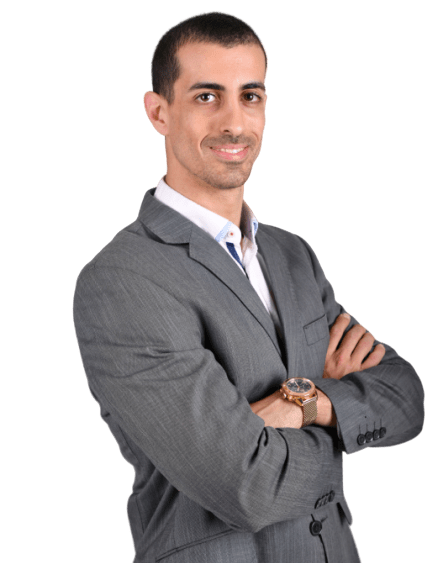
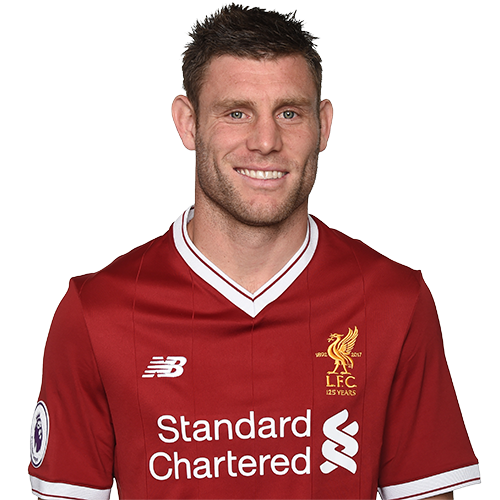
about page

diff --git a/src/main/resources/templates/about.html b/src/main/resources/templates/about.html
@@ -1,0 +1,212 @@
+<!doctype html>
+<html lang="en" xmlns:th="http://www.thymeleaf.org">
+
+<head>
+  <!-- Required meta tags -->
+  <meta charset="utf-8">
+  <meta name="viewport" content="width=device-width, initial-scale=1">
+  <title>Eazy School - Best Educational Institute for your Child</title>
+  <!-- Google fonts -->
+  <link href="//fonts.googleapis.com/css2?family=Ubuntu:wght@300;400;500;700&display=swap" rel="stylesheet">
+  <!-- Template CSS Style link -->
+  <link rel="stylesheet" href="assets/css/style-starter.css">
+</head>
+
+<body>
+
+<!-- header -->
+<div th:replace="~{header :: header}">...</div>
+<!-- //header -->
+
+<!-- inner banner -->
+<section class="inner-banner py-5">
+  <div class="w3l-breadcrumb py-lg-5">
+    <div class="container pt-4 pb-sm-4">
+      <h4 class="inner-text-title pt-5">About Us</h4>
+      <ul class="breadcrumbs-custom-path">
+        <li><a th:href="@{/home}">Home</a></li>
+        <li class="active"><i class="fas fa-angle-right"></i>About Us</li>
+      </ul>
+    </div>
+  </div>
+</section>
+<!-- //inner banner -->
+
+<!-- team block -->
+<section class="w3l-team-13 py-5" id="team">
+  <div class="container py-md-5 py-4">
+    <div class="title-main text-center mx-auto mb-md-5 mb-4" style="max-width:500px;">
+      <p class="text-uppercase">Our Team</p>
+      <h3 class="title-style">Meet our Teachers</h3>
+    </div>
+    <div class="row text-center left-side">
+      <div class="col-lg-3 col-6">
+        <div class="image-one">
+          <a href="#team">
+            <img src="assets/images/team1.png" class="arrow-png img-responsive" />
+            <h4>Trent Alexander-Arnold</h4>
+            <div class="buttons-teams2 mt-2">
+              <a href="#team"><i class="fab fa-facebook-square"></i></a>
+              <a href="#team"><i class="fab fa-twitter-square"></i></a>
+              <a href="#team"><i class="fab fa-google-plus-square"></i></a>
+            </div>
+          </a>
+        </div>
+      </div>
+      <div class="col-lg-3 col-6">
+        <div class="image-one">
+          <a href="#team">
+            <img src="assets/images/team2.png" class="arrow-png img-responsive">
+            <h4>Cristiano Ronaldo</h4>
+            <div class="buttons-teams2 mt-2">
+              <a href="#team"><i class="fab fa-facebook-square"></i></a>
+              <a href="#team"><i class="fab fa-twitter-square"></i></a>
+              <a href="#team"><i class="fab fa-google-plus-square"></i></a>
+            </div>
+          </a>
+        </div>
+      </div>
+      <div class="col-lg-3 col-6 mt-lg-0 mt-4">
+        <div class="image-one">
+          <a href="#team">
+            <img src="assets/images/team3.png" class="arrow-png img-responsive">
+            <h4>James Milner</h4>
+            <div class="buttons-teams2 mt-2">
+              <a href="#team"><i class="fab fa-facebook-square"></i></a>
+              <a href="#team"><i class="fab fa-twitter-square"></i></a>
+              <a href="#team"><i class="fab fa-google-plus-square"></i></a>
+            </div>
+          </a>
+        </div>
+      </div>
+      <div class="col-lg-3 col-6 mt-lg-0 mt-4">
+        <div class="image-one">
+          <a href="#team">
+            <img src="assets/images/team4.png" class="arrow-png img-responsive">
+            <h4>Anthony dos Santos</h4>
+            <div class="buttons-teams2 mt-2">
+              <a href="#team"><i class="fab fa-facebook-square"></i></a>
+              <a href="#team"><i class="fab fa-twitter-square"></i></a>
+              <a href="#team"><i class="fab fa-google-plus-square"></i></a>
+            </div>
+          </a>
+        </div>
+      </div>
+    </div>
+  </div>
+</section>
+<!-- //team block -->
+
+<!-- about-2 section -->
+<section class="w3l-about-2 pb-5 pt-4">
+  <div class="container pb-md-5 pb-4">
+    <div class="row align-items-center justify-content-between">
+      <div class="col-lg-6 about-2-secs-right mb-lg-0 mb-4 text-center pe-lg-4">
+        <img src="assets/images/image.jpg" alt="" class="img-fluid radius-image m-auto" />
+      </div>
+      <div class="col-lg-6 about-2-secs-left ps-lg-5">
+        <p class="text-uppercase">Our Environment</p>
+        <h3 class="title-style mb-sm-3 mb-2">Clean & Safe Environment</h3>
+        <p>Eazy School maintains the Safest environment for both teachers and students
+          by sanitizing the schools daily. Enough security is in place with the help of
+          dedicated security team and cameras inside the campus.</p>
+        <div class="d-flex align-items-center mt-5">
+          <a class="btn btn-style btn-style-3" th:href="@{/contact}">Contact Us</a>
+          <a class="btn btn-style-primary ms-4" th:href="@{/contact}">Learn More <i
+                  class="fas fa-arrow-right"></i></a>
+        </div>
+      </div>
+    </div>
+  </div>
+</section>
+<!-- //about-2 section -->
+
+<!-- footer block -->
+<div th:replace="~{footer :: footer}">...</div>
+<!-- //footer block -->
+
+<!-- Js scripts -->
+<!-- move top -->
+<button onclick="topFunction()" id="movetop" title="Go to top">
+  <span class="fas fa-level-up-alt" aria-hidden="true"></span>
+</button>
+<script>
+  // When the user scrolls down 20px from the top of the document, show the button
+  window.onscroll = function () {
+    scrollFunction()
+  };
+
+  function scrollFunction() {
+    if (document.body.scrollTop > 20 || document.documentElement.scrollTop > 20) {
+      document.getElementById("movetop").style.display = "block";
+    } else {
+      document.getElementById("movetop").style.display = "none";
+    }
+  }
+
+  // When the user clicks on the button, scroll to the top of the document
+  function topFunction() {
+    document.body.scrollTop = 0;
+    document.documentElement.scrollTop = 0;
+  }
+</script>
+<!-- //move top -->
+
+<!-- common jquery plugin -->
+<script src="assets/js/jquery-3.3.1.min.js"></script>
+<!-- //common jquery plugin -->
+
+<!-- counter-->
+<script src="assets/js/counter.js"></script>
+<!-- //counter-->
+
+<!-- theme switch js (light and dark)-->
+<script src="assets/js/theme-change.js"></script>
+<!-- //theme switch js (light and dark)-->
+
+<!-- MENU-JS -->
+<script>
+  $(window).on("scroll", function () {
+    var scroll = $(window).scrollTop();
+
+    if (scroll >= 80) {
+      $("#site-header").addClass("nav-fixed");
+    } else {
+      $("#site-header").removeClass("nav-fixed");
+    }
+  });
+
+  //Main navigation Active Class Add Remove
+  $(".navbar-toggler").on("click", function () {
+    $("header").toggleClass("active");
+  });
+  $(document).on("ready", function () {
+    if ($(window).width() > 991) {
+      $("header").removeClass("active");
+    }
+    $(window).on("resize", function () {
+      if ($(window).width() > 991) {
+        $("header").removeClass("active");
+      }
+    });
+  });
+</script>
+<!-- //MENU-JS -->
+
+<!-- disable body scroll which navbar is in active -->
+<script>
+  $(function () {
+    $('.navbar-toggler').click(function () {
+      $('body').toggleClass('noscroll');
+    })
+  });
+</script>
+<!-- //disable body scroll which navbar is in active -->
+
+<!-- bootstrap -->
+<script src="assets/js/bootstrap.min.js"></script>
+<!-- //bootstrap -->
+<!-- //Js scripts -->
+</body>
+
+</html>
